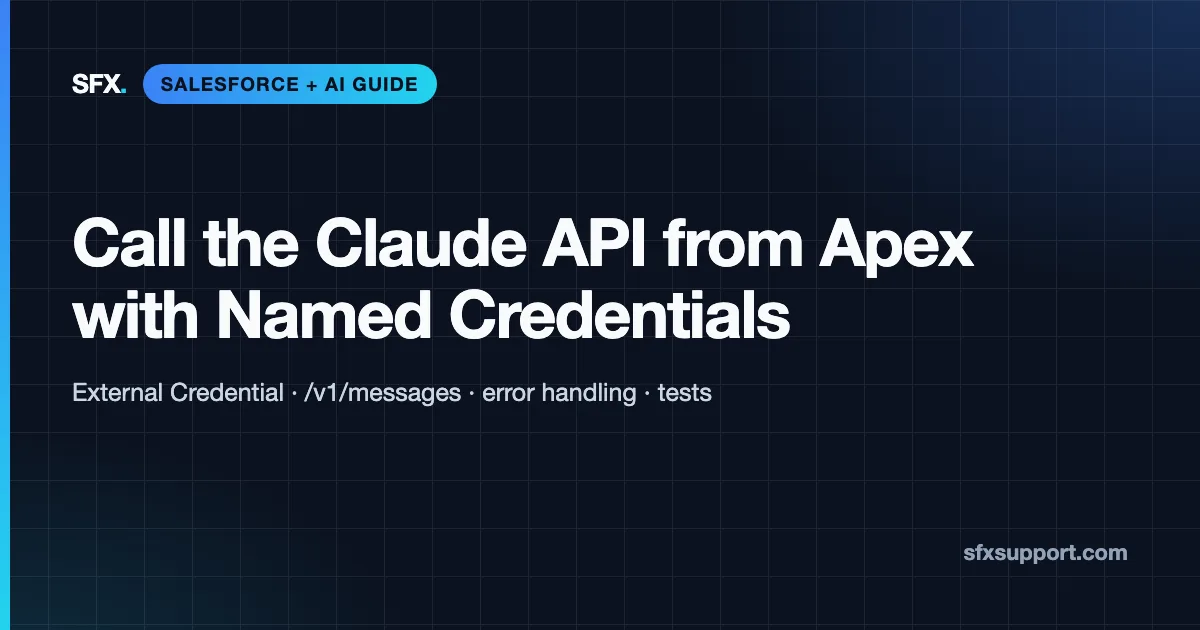
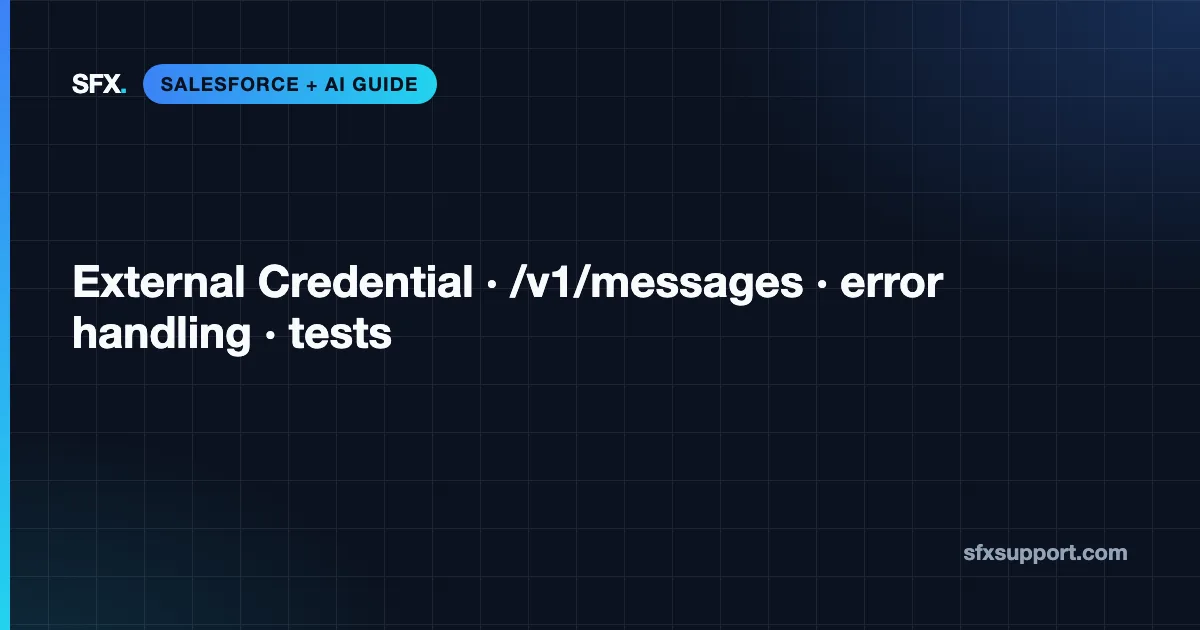
Blog covers: on-page hero without the title; social card keeps it
The H1 sits directly above the hero, so the hero no longer repeats the title (screen readers
heard it twice). The WebP hero shows the series and the error/tag line and is decorative (alt="");
the JPEG with the title stays the Open Graph image for feeds.

Claude-Session: https://claude.ai/code/session_01SGAvG56sbdUa8ZuE1eP29E

Changed region(s): [[0.0617, 0.3317, 0.8325, 0.573], [0.0617, 0.6032, 0.5858, 0.6635]]

diff --git a/_layouts/blog-post.html b/_layouts/blog-post.html
@@ -23,7 +23,7 @@ layout: default
       <span><i class="bi bi-person"></i>{{ page.author_name | default: "SFX Support" }}</span>
       {% if page.last_modified_at and page.last_modified_at != page.date %}<span><i class="bi bi-arrow-repeat"></i>Updated {{ page.last_modified_at | date: "%d %B %Y" }}</span>{% endif %}
     </div>
-    {% if page.image %}{% assign hero_webp = page.image | replace: '.jpg', '.webp' %}{% assign hero_has_webp = site.static_files | where: "path", hero_webp | first %}<picture>{% if hero_has_webp %}<source srcset="{{ hero_webp }}" type="image/webp">{% endif %}<img class="article-hero-image" src="{{ page.image }}" alt="{{ page.image_alt | default: page.title | escape }}" {% if hero_has_webp %}width="1200" height="630"{% else %}width="1600" height="900"{% endif %} loading="eager" fetchpriority="high" decoding="async"></picture>{% endif %}
+    {% if page.image %}{% assign hero_webp = page.image | replace: '.jpg', '.webp' %}{% assign hero_has_webp = site.static_files | where: "path", hero_webp | first %}<picture>{% if hero_has_webp %}<source srcset="{{ hero_webp }}" type="image/webp">{% endif %}<img class="article-hero-image" src="{{ page.image }}" {% if hero_has_webp %}alt=""{% else %}alt="{{ page.image_alt | default: page.title | escape }}"{% endif %} {% if hero_has_webp %}width="1200" height="630"{% else %}width="1600" height="900"{% endif %} loading="eager" fetchpriority="high" decoding="async"></picture>{% endif %}
   </header>
 
   <div class="article-grid">
